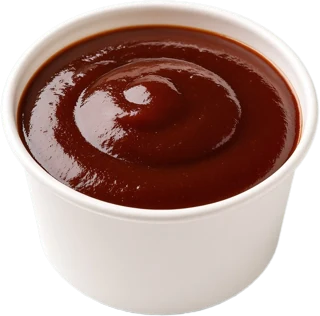
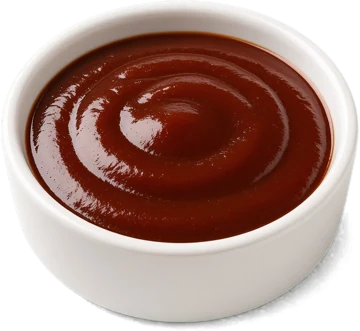
v5: OVERTIME SHAKES copy above the closed box (no overlap with the badge), no halo on reassembly (layers close before a quick photo swap), 2.5D thickness + box-following yaw + contact shadows + drop-in arc for the combo food, straw on the shake, low dip ramekins, thicker stack layers, cache-bust ?v=

diff --git a/main.js b/main.js
@@ -174,8 +174,8 @@ async function initAnim() {
       .to(sp, { y: () => -L.vh * (L.portrait ? 0.08 : 0.5), duration: 1.0, ease: 'none' }, 4.15)
       .to(sp, { autoAlpha: 0, duration: 0.2, ease: 'none' }, 5.08); }
   tl.to(labelsEl, { autoAlpha: 0, duration: 0.25 }, 4.15)
-    .to(S, { explode: 0, duration: 0.7 }, 4.3)
-    .to(S, { photo: 1, duration: 0.15 }, 4.85)
+    .to(S, { explode: 0, duration: 0.5 }, 4.3)
+    .to(S, { photo: 1, duration: 0.05, ease: 'none' }, 4.8)
     .to(S, { items: 1, duration: 0.85, ease: 'power3.out' }, 4.4)
     .to(S, { seg: 3, duration: 0.8 }, 4.3)
     .to('.bg-kitchen', { autoAlpha: 1, duration: 0.6 }, 5.25)
@@ -238,7 +238,7 @@ async function initAnim() {
     if (document.readyState === 'complete') later(); else addEventListener('load', later, { once: true });
   });
   const yieldMain = () => new Promise(r => setTimeout(r, 0));
-  const THREE = await import('./vendor/three-app.js?v=4');
+  const THREE = await import('./vendor/three-app.js?v=5');
   const canvas = $('#gl');
   const renderer = new THREE.WebGLRenderer({ canvas, antialias: true, alpha: true, powerPreference: 'high-performance' });
   renderer.setClearColor(0x000000, 0);
@@ -270,6 +270,17 @@ async function initAnim() {
 
   const burger = new THREE.Group(); scene.add(burger);
   const planeMat = (t) => new THREE.MeshBasicMaterial({ map: t, transparent: true, depthWrite: false, toneMapped: false });
+  // thickness for photo cut-outs: darker copies stacked behind the face, so any yaw shows a solid edge (2.5D volume)
+  function addSlices(m, n, depth, dark = 0.42, dy = 0) {
+    const sl = [];
+    for (let j = 1; j <= n; j++) {
+      const k = j / n, c = Math.round(255 * (1 - (1 - dark) * Math.min(1, 0.45 + k * 0.55))) * 0x010101;
+      const sm = new THREE.Mesh(m.geometry, new THREE.MeshBasicMaterial({ map: m.material.map, transparent: true, depthWrite: false, toneMapped: false, color: c, opacity: 0 }));
+      sm.position.set(0, -dy * k, -depth * k); sm.renderOrder = m.renderOrder - 1; m.add(sm); sl.push(sm);
+    }
+    m.userData.slices = sl; return sl;
+  }
+  const syncSlices = (m, op) => { const sl = m.userData.slices; if (!sl) return; for (const c of sl) { c.material.opacity = op; c.visible = op > 0.003; } };
   const layers = LAY.map((l, i) => {
     const m = new THREE.Mesh(new THREE.PlaneGeometry(l[3] / 100, l[4] / 100), planeMat(layerTex[i]));
     m.userData.base = { x: (l[1] + l[3] / 2 - CX) / 100, y: -(l[2] + l[4] / 2 - CY) / 100 };
@@ -283,9 +294,8 @@ async function initAnim() {
     const pw = l[3] / 100, ph = l[4] / 100;
     const sh = new THREE.Mesh(new THREE.PlaneGeometry(pw * 1.12, ph * 1.25), new THREE.MeshBasicMaterial({ map: st, transparent: true, depthWrite: false, opacity: 0 }));
     sh.position.set(0.04, -ph * 0.32, -0.06); sh.renderOrder = 9; m.add(sh);
-    const edge = new THREE.Mesh(m.geometry, new THREE.MeshBasicMaterial({ map: layerTex[i], transparent: true, depthWrite: false, toneMapped: false, color: 0x7a5030 }));
-    edge.position.set(0, -Math.min(0.055, ph * 0.075), -0.012); edge.renderOrder = 9; m.add(edge);
-    m.userData.sh = sh; m.userData.edge = edge;
+    addSlices(m, 5, 0.16, 0.45, Math.min(0.06, ph * 0.08));
+    m.userData.sh = sh;
     return m;
   });
   // shadow under the burger on the paper
@@ -297,7 +307,7 @@ async function initAnim() {
 
   // bottom-anchored billboard items (photo burger, fries, sauce, shake). Unit = 1 world unit wide.
   function item(t, w, h) { const g = new THREE.PlaneGeometry(1, h / w); g.translate(0, h / w / 2, 0); const m = new THREE.Mesh(g, planeMat(t)); m.renderOrder = 30; scene.add(m); return m; }
-  const photo = item(photoTex, 800, 659);
+  const photo = item(photoTex, 800, 659); addSlices(photo, 6, 0.06, 0.5);
 
   /* ---------- the box (procedural, canvas textures) ---------- */
   await document.fonts.load('100px Anton'); await yieldMain();
@@ -387,13 +397,13 @@ async function initAnim() {
   /* ---------- combo food: photographic 2.5D sprites (camera-facing photo layers + contact shadows) ----------
      Each item is a group anchored at its base. Its photo layers always face the camera (so they read like the video's
      photography), get a slight per-layer yaw/roll for depth while they fly in, and sit on a soft contact shadow once in the box. */
-  const [pileT, trayT, dipOT, dipDT, shakeT] = await Promise.all(['f_pile', 'f_tray', 'f_dipo', 'f_dipd', 'f_shake'].map(n => tex(`assets/img/${n}.webp?v=4`)));
+  const [pileT, trayT, dipOT, dipDT, shakeT] = await Promise.all(['f_pile', 'f_tray', 'f_dipo', 'f_dipd', 'f_shake'].map(n => tex(`assets/img/${n}.webp?v=5`)));
   const blob = canvasTex(256, 128, (g, w, h) => { const gr = g.createRadialGradient(w / 2, h / 2, 2, w / 2, h / 2, w / 2); gr.addColorStop(0, 'rgba(0,0,0,.85)'); gr.addColorStop(0.55, 'rgba(0,0,0,.4)'); gr.addColorStop(1, 'rgba(0,0,0,0)'); g.setTransform(1, 0, 0, 0.5, 0, h / 4); g.fillStyle = gr; g.fillRect(0, 0, w, w); });
   function layerMesh(t, w, opts = {}) {
     const ar = t.image.height / t.image.width, h = w * ar;
     const geo = new THREE.PlaneGeometry(w, h); geo.translate(0, h / 2 - (opts.sink || 0) * h, 0);
     const m = new THREE.Mesh(geo, new THREE.MeshBasicMaterial({ map: t, transparent: true, depthWrite: false, toneMapped: false, color: opts.tint || 0xffffff }));
-    if (opts.flip) m.scale.x = -1; m.renderOrder = 40; m.userData = { h, w, dx: opts.dx || 0, dz: opts.dz || 0, yaw: opts.yaw || 0, op: opts.op ?? 1 }; return m;
+    if (opts.flip) m.scale.x = -1; m.renderOrder = 40; m.userData = { h, w, dx: opts.dx || 0, dz: opts.dz || 0, yaw: opts.yaw || 0, op: opts.op ?? 1 }; addSlices(m, 5, w * 0.07, 0.42); return m;
   }
   function sprite(layersDef, shadowW, boxOnly = []) {
     const g = new THREE.Group(); const L2 = layersDef.map(([t, w, o]) => layerMesh(t, w, o));
@@ -411,7 +421,7 @@ async function initAnim() {
   const burgerSh = new THREE.Mesh(new THREE.PlaneGeometry(1.5, 0.82), new THREE.MeshBasicMaterial({ map: blob, transparent: true, depthWrite: false, opacity: 0 }));
   burgerSh.rotation.x = -Math.PI / 2; burgerSh.renderOrder = 35; box.add(burgerSh); burgerSh.position.set(SLOT.photo[0], SLOT.photo[1] + 0.006, SLOT.photo[2]);
   const FOOD = { fries, dipO, dipD, shake };
-  fries.userData.k = 0.95; shake.userData.k = 0.8; dipO.userData.k = dipD.userData.k = 0.44;
+  fries.userData.lift = 1.7; dipO.userData.lift = dipD.userData.lift = 1.1; shake.userData.lift = 0.5; fries.userData.k = 0.95; shake.userData.k = 0.8; dipO.userData.k = dipD.userData.k = 0.44;
 
   await yieldMain();
   /* ---------- fitting helpers ---------- */
@@ -505,6 +515,7 @@ async function initAnim() {
     }
     m.position.set(x, y, z); m.scale.setScalar(Math.max(w, 1e-4));
     m.material.opacity = opacity; m.visible = opacity > 0.003;
+    if (m.userData.slices) { m.rotation.y = k > 0 ? Math.max(-0.16, box.rotation.y * 0.35 + 0.05) * ease(clamp01(k * 1.4)) : 0; syncSlices(m, k > 0 ? opacity * ease(clamp01(k * 3)) : 0); }
   }
   const qInv = new THREE.Quaternion(), qF = new THREE.Quaternion(), eF = new THREE.Euler();
   const qA = new THREE.Quaternion(), qB = new THREE.Quaternion(), eA = new THREE.Euler(), vS = new THREE.Vector3(), qSlot = new THREE.Quaternion();
@@ -516,7 +527,7 @@ async function initAnim() {
     if (k > 0) {
       vS.set(slot[0], slot[1], slot[2]); box.localToWorld(vS); const kk = ease(clamp01(k));
       qSlot.setFromAxisAngle(vS.clone().set(0, 1, 0), yaw * 0.4); qB.copy(box.quaternion).multiply(qSlot);
-      x = lerp(x, vS.x, kk); y = lerp(y, vS.y, kk); z = lerp(z, vS.z, kk); sc = lerp(sF, box.scale.x * (o.userData.k || 1), kk); qA.slerp(qB, kk);
+      x = lerp(x, vS.x, kk); y = lerp(y, vS.y, kk) + Math.sin(Math.PI * kk) * (o.userData.lift ?? 0.9) * box.scale.x; z = lerp(z, vS.z, kk) + Math.sin(Math.PI * kk) * 0.6 * box.scale.x; // arc: items drop into their compartments from above sc = lerp(sF, box.scale.x * (o.userData.k || 1), kk); qA.slerp(qB, kk);
     }
     o.position.set(x, y, z); o.scale.setScalar(sc); o.quaternion.copy(qA);
   }
@@ -532,8 +543,8 @@ async function initAnim() {
       m.position.set(b.x + Math.sin(i * 2.1) * 0.12 * e, b.y * sp + fl, (2.5 - i) * 0.22 * e);
       m.rotation.z = (i % 2 ? 1 : -1) * 0.05 * e;
       m.material.opacity = layerOp; m.visible = layerOp > 0.003;
-      const vol = clamp01((e - 0.15) / 0.3); m.userData.sh.material.opacity = i === 5 ? 0 : 0.42 * layerOp * vol; m.userData.edge.material.opacity = layerOp * (0.35 + 0.65 * vol);
-      m.rotation.y = (i - 2.5) * 0.035 * e; // tiny per-layer yaw: the layers turn slightly differently as the burger spins → parallax depth
+      const vol = clamp01((e - 0.15) / 0.3); m.userData.sh.material.opacity = i === 5 ? 0 : 0.42 * layerOp * vol; syncSlices(m, layerOp * vol);
+      m.rotation.y = (i - 2.5) * 0.07 * e + 0.22 * e; // tiny per-layer yaw: the layers turn slightly differently as the burger spins → parallax depth
     });
     // shadow on the hero paper
     const shOp = clamp01(1 - S.seg * 2.2);
@@ -558,10 +569,10 @@ async function initAnim() {
     const inBox = S.lid < 0.93 ? 1 : 0, lidHideShake = 1 - clamp01((S.lid - 0.12) / 0.3);
     placeItem(photo, [0, -2.02 + 0.12 * S.hz * (1 - S.items), 4.9 * (1 + 0.05 * S.hz * (1 - S.items))], SLOT.photo, 1, kBox, S.photo * inBox);
     const shK = ease(clamp01((kBox - 0.55) / 0.45));
-    burgerSh.material.opacity = 0.75 * shK * S.photo * inBox; burgerSh.visible = box.visible && burgerSh.material.opacity > 0.01;
+    burgerSh.material.opacity = 0.75 * ease(clamp01(kBox * 1.6)) * S.photo * inBox; burgerSh.visible = box.visible && burgerSh.material.opacity > 0.01;
     const fly = (p, from) => [lerp(from[0], p[0], itE), lerp(from[1], p[1], itE), p[2]];
     const FROM = { fries: [-16, 9], dipO: [-6, 16], dipD: [8, 15], shake: [17, 4] }, SPIN = { fries: -0.5, dipO: 0.3, dipD: -0.2, shake: 0.4 };
-    const swap = ease(clamp01((kBox - 0.35) / 0.4)); // fries tray → loose heap while it drops into the box
+    const swap = ease(clamp01((kBox - 0.22) / 0.2)); // fries tray → loose heap while it drops into the box
     for (const k of ['fries', 'dipO', 'dipD', 'shake']) {
       const o = FOOD[k]; const roll = (1 - itE) * (k === 'shake' ? -0.5 : 0.6);
       place3(o, fly(it[k], FROM[k]), SLOT[k], kBox, roll, SPIN[k]);
@@ -574,12 +585,12 @@ async function initAnim() {
         if (o.userData.boxLayers) lop *= o.userData.boxLayers.includes(i) ? swap : 1 - swap;
         // face the camera, with a slight per-layer yaw + roll that settles as the item lands
         const settle = 1 - ease(clamp01(kBox));
-        eF.set(0, (u.yaw + SPIN[k] * 0.5) * (0.35 + settle) + mouse.x * 0.05, roll * 0.9 * settle + roll * 0.1); qF.setFromEuler(eF);
+        eF.set(0, (u.yaw + SPIN[k] * 0.5) * (0.35 + settle) + Math.max(-0.18, box.rotation.y * 0.35) * ease(clamp01(kBox * 1.4)) + 0.06 + mouse.x * 0.05, roll * 0.9 * settle + roll * 0.1); qF.setFromEuler(eF);
         m.quaternion.copy(qInv).multiply(qF);
         m.position.set(u.dx, 0, u.dz);
-        m.material.opacity = op * lop; m.visible = m.material.opacity > 0.003;
+        m.material.opacity = op * lop; m.visible = m.material.opacity > 0.003; syncSlices(m, m.material.opacity);
       });
-      o.userData.sh.material.opacity = 0.7 * op * shK; o.userData.sh.visible = o.userData.sh.material.opacity > 0.01;
+      o.userData.sh.material.opacity = 0.7 * op * ease(clamp01(kBox * 1.6)); o.userData.sh.visible = o.userData.sh.material.opacity > 0.01;
     }
     // key light + shadow frustum follow the box
     if (box.visible || photo.visible) {

diff --git a/index.html b/index.html
@@ -27,7 +27,7 @@
   var gl=false;try{var c=document.createElement('canvas');gl=!!(c.getContext('webgl2')||c.getContext('webgl'));}catch(e){}
   d.className+=(rm||!gl)?' rm':' anim';})();
 </script>
-<link rel="stylesheet" href="style.css?v=4">
+<link rel="stylesheet" href="style.css?v=5">
 </head>
 <body>
 <a class="skip" href="#main">Skip to content</a>
@@ -216,9 +216,9 @@
 
 <div class="toast" id="toast" role="status" aria-live="polite"></div>
 
-<script src="vendor/gsap.min.js?v=4"></script>
-<script src="vendor/ScrollTrigger.min.js?v=4"></script>
-<script src="vendor/lenis.min.js?v=4"></script>
-<script type="module" src="main.js?v=4"></script>
+<script src="vendor/gsap.min.js?v=5"></script>
+<script src="vendor/ScrollTrigger.min.js?v=5"></script>
+<script src="vendor/lenis.min.js?v=5"></script>
+<script type="module" src="main.js?v=5"></script>
 </body>
 </html>

diff --git a/style.css b/style.css
@@ -226,3 +226,5 @@ main:focus{outline:none}
 
 @media (max-width:820px){.anim .t-combo{bottom:16px}.t-combo .copy,.anim .txt.t-combo .copy{padding:14px 16px 16px}}
 @media (min-aspect-ratio:1/1){.anim .t-combo{max-width:none}}
+/* v5 — OVERTIME SHAKES copy sits above the closed box (box position unchanged), clear of its red badge */
+@media (min-aspect-ratio:1/1){.anim .t-shakes{top:calc(var(--navh) + 4vh)}}
